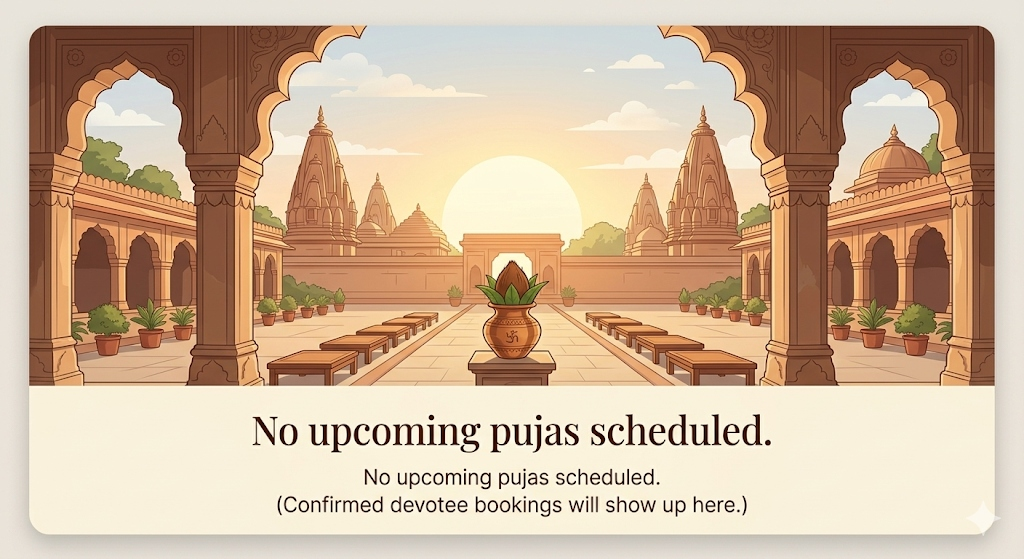
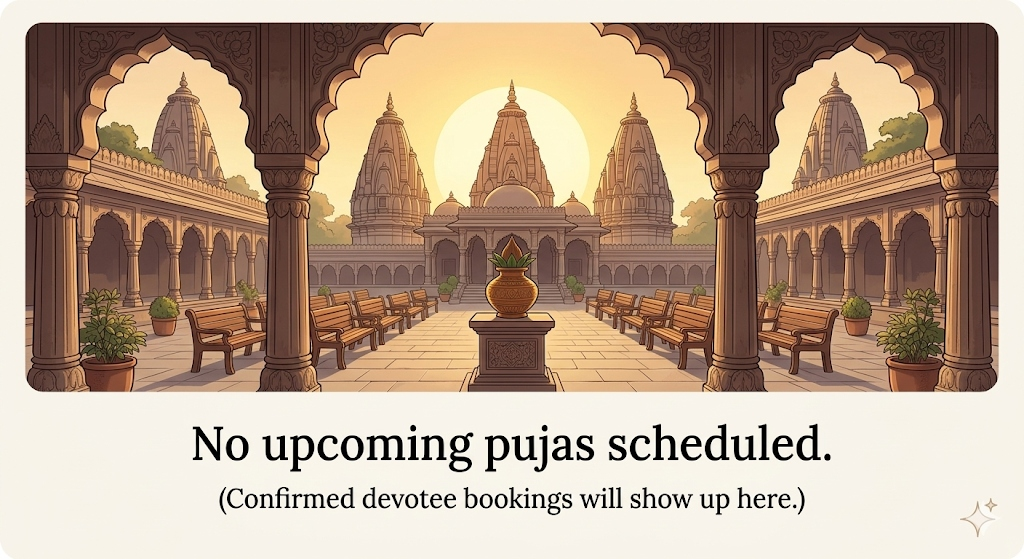
fix(dashboard): use new upcoming empty illustration and make images cover cards completely

diff --git a/frontend/src/pages/PanditDashboard.jsx b/frontend/src/pages/PanditDashboard.jsx
@@ -779,7 +779,7 @@ const PanditDashboard = () => {
               {/* Split Dashboard Content */}
               <div className="pd-dashboard-split" style={{ position: 'relative', zIndex: 1 }}>
                 {/* Upcoming Confirmed Pujas Widget */}
-                <div className="pd-widget-card">
+                <div className="pd-widget-card" style={{ display: 'flex', flexDirection: 'column' }}>
                   <div className="pd-widget-header">
                     <h3 style={{ fontFamily: "'Playfair Display', serif", fontSize: 18, fontWeight: 800, color: C.maroon, display: 'flex', alignItems: 'center', gap: 8, margin: 0 }}>
                       <CalendarCheck size={20} color={C.saffron} /> {t('pd_upcoming_schedule') || 'Upcoming Pujas Schedule'}
@@ -790,8 +790,8 @@ const PanditDashboard = () => {
                   </div>
 
                   {bookings.filter(b => b.status === 'confirmed').length === 0 ? (
-                    <div style={{ borderRadius: 16, overflow: 'hidden' }}>
-                      <img src="/pictures/upcoming_empty.jpg" alt="No upcoming pujas" style={{ width: '100%', display: 'block' }} />
+                    <div style={{ borderRadius: 16, overflow: 'hidden', flex: 1, display: 'flex' }}>
+                      <img src="/pictures/upcoming_empty.jpg" alt="No upcoming pujas" style={{ width: '100%', height: '100%', objectFit: 'cover', display: 'block' }} />
                     </div>
                   ) : (
                     <div style={{ display: 'flex', flexDirection: 'column', gap: 16 }}>
@@ -820,7 +820,7 @@ const PanditDashboard = () => {
                 </div>
 
                 {/* Booking Requests Queue Widget */}
-                <div className="pd-widget-card">
+                <div className="pd-widget-card" style={{ display: 'flex', flexDirection: 'column' }}>
                   <div className="pd-widget-header">
                     <h3 style={{ fontFamily: "'Playfair Display', serif", fontSize: 18, fontWeight: 800, color: C.maroon, display: 'flex', alignItems: 'center', gap: 8, margin: 0 }}>
                       <Bell size={20} color={C.saffron} /> {t('pd_pending_requests') || 'Pending Requests'}
@@ -828,8 +828,8 @@ const PanditDashboard = () => {
                   </div>
 
                   {bookings.filter(b => b.status === 'pending').length === 0 ? (
-                    <div style={{ borderRadius: 16, overflow: 'hidden' }}>
-                      <img src="/pictures/requests_empty.png" alt="No pending requests" style={{ width: '100%', display: 'block' }} />
+                    <div style={{ borderRadius: 16, overflow: 'hidden', flex: 1, display: 'flex' }}>
+                      <img src="/pictures/requests_empty.png" alt="No pending requests" style={{ width: '100%', height: '100%', objectFit: 'cover', display: 'block' }} />
                     </div>
                   ) : (
                     <div style={{ display: 'flex', flexDirection: 'column', gap: 16 }}>
